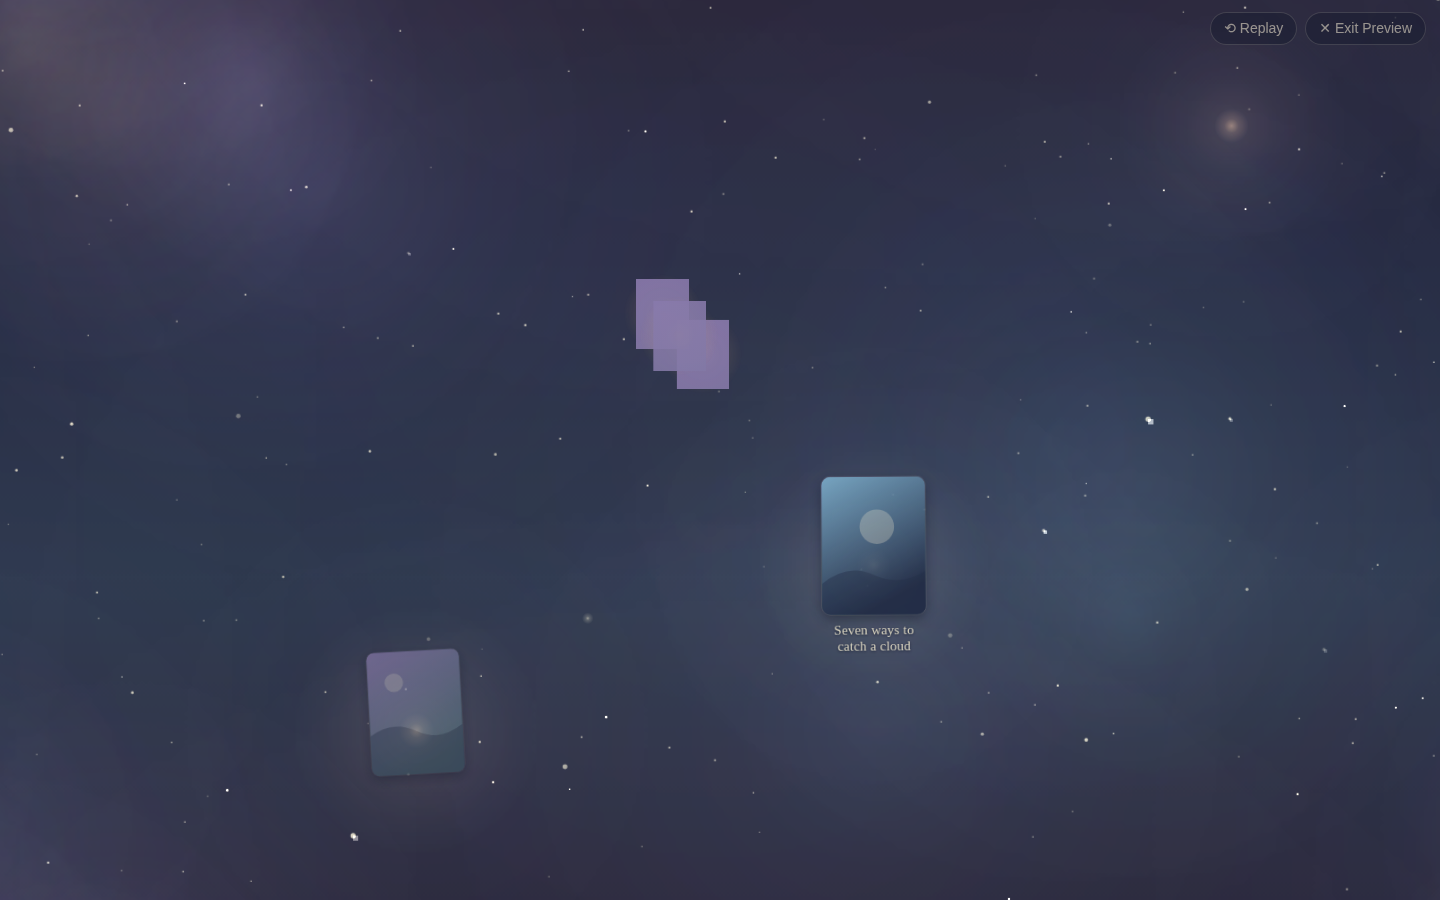
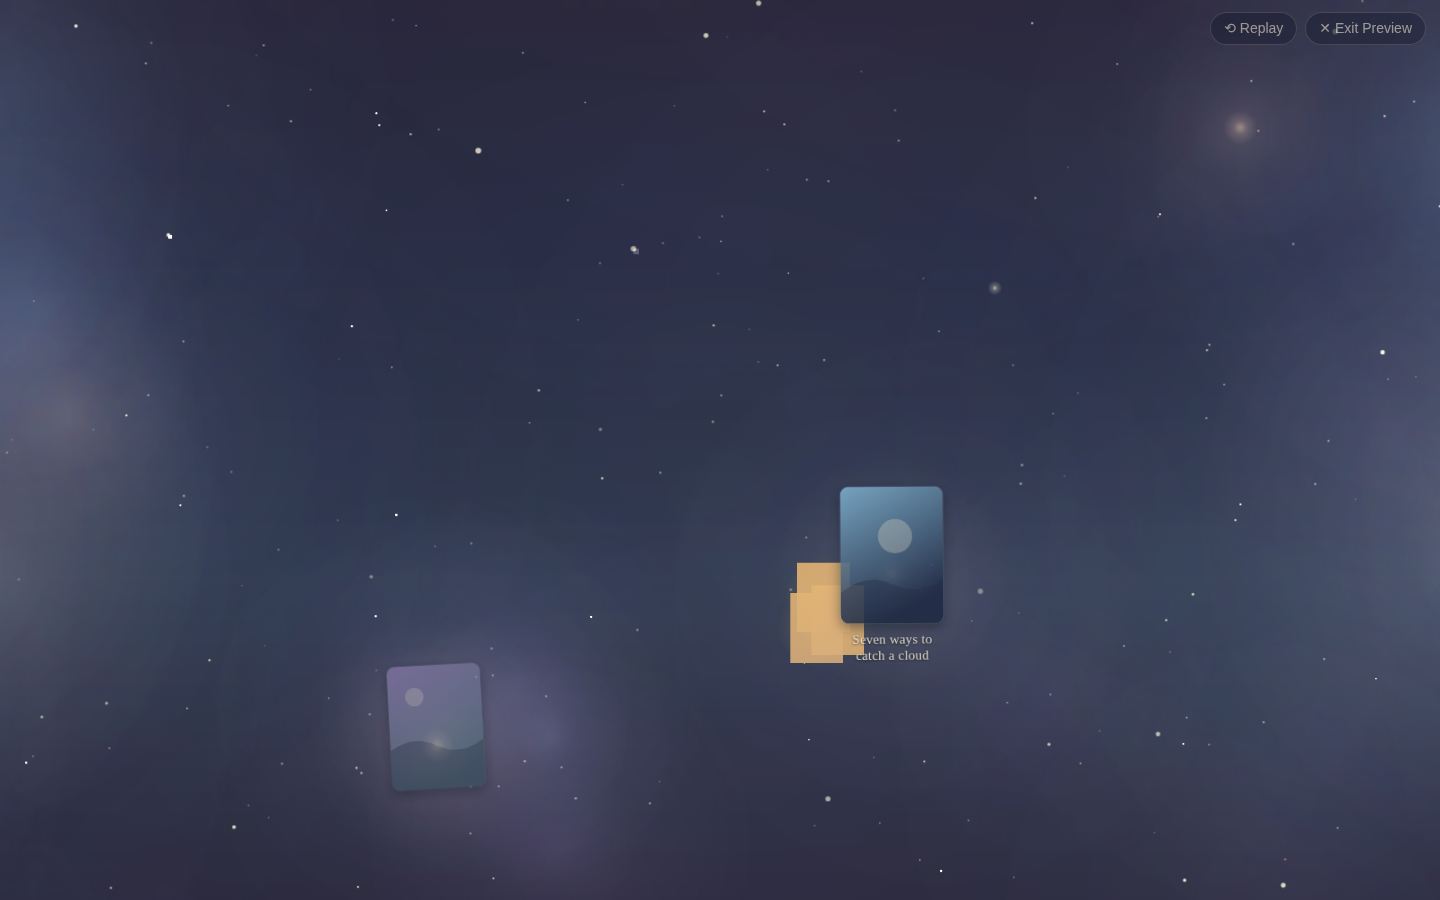
Ether Mystery Lab: the fair Pegasus test — a creation, and room to use it
The first run of this preset came back 5/5 valid and 5/5 the same. The
forensic trace found why, and it was not the model: no creation was
supplied, so shard, toward-creation and creation-revealed were all
refusable, the only ingredient left was an anchor, and the schema
truthfully says an anchor pairs with place 'at-anchor'. All five then
placed every element there — and the interpreter's clustered branch
puts those within ±40×±30px of ONE point. Measured on the five real
candidates: bounding boxes of 64×69 to 148×125 on a 1440×900 sky, and
0.002%-0.332% of it perceptible.

TWO CHANGES, BOTH IN THE LAB.

`pegasus-regeneration` gains `needsCreation: true`, and its directive
asks for the space to be used: vary placement across the five, drawing
on scattered, ring, far and toward-creation, at-anchor at most once,
and never every element of a candidate in one place. Every placement it
names is a real capability (C10g) — a directive naming something the
vocabulary lacks only produces refusals.

AND `needsCreation` BECOMES A FACT RATHER THAN A LABEL. It was a
parenthetical in the preset note and nothing else — gatherBuildOpts
reads #creationSelect on its own — so a creation-bound experiment
generated perfectly happily without one. That IS what happened to the
first batch. Arming now selects it, for the same reason arming already
set count, grammar and complexity; and a run with it cleared is refused
in words rather than generated anyway.
[…]

diff --git a/tools/ether-mystery-lab-test/run-lab-tests.js b/tools/ether-mystery-lab-test/run-lab-tests.js
@@ -799,6 +799,48 @@ async function sectionB() {
   ck(rr.indexOf('materially different') !== -1 || rr.indexOf('RESKINS PRESENT') !== -1,
     'B15 the reskin measure is on screen after a preset run', rr.slice(0, 60));
 
+  {
+    // B16 — ARMING A CREATION-BOUND PRESET SUPPLIES THE CREATION.
+    //
+    // `needsCreation` used to be a parenthetical in the preset note and
+    // nothing else — gatherBuildOpts reads #creationSelect on its own —
+    // so a creation-bound experiment generated perfectly happily without
+    // one. That is what happened to the first Pegasus batch, and it is
+    // why all five candidates came back built on an anchor. Arming now
+    // sets it, exactly as it already set count, grammar and complexity.
+    await page.reload();
+    await page.waitForTimeout(900);
+    await page.check('#modeFixture');
+    const creationBefore = await page.inputValue('#creationSelect');
+    await page.click('.lab-preset[data-preset="pegasus-regeneration"]');
+    await page.waitForTimeout(120);
+    const armed = await page.evaluate(() => ({
+      creation: document.getElementById('creationSelect').value,
+      count: document.getElementById('countSelect').value,
+      complexity: document.getElementById('complexitySelect').value,
+      grammar: document.getElementById('grammarSelect').value
+    }));
+    ck(creationBefore === '' && armed.creation === 'fixture-0' && armed.count === '5' &&
+       armed.complexity === 'mixed' && armed.grammar === 'compose',
+      'B16 arming the Pegasus run selects a creation as well as its other parameters',
+      JSON.stringify(armed));
+    await page.click('#generateBtn');
+    await page.waitForTimeout(700);
+    const pegDiag = await page.textContent('#diagnostic');
+    ck(pegDiag.indexOf('NOT SENT') === -1 && /story/.test(pegDiag),
+      'B16b and the creation is in the input that would reach a generator',
+      pegDiag.slice(0, 80));
+
+    // B16c — a reviewer who clears it is TOLD, and nothing is sent.
+    await page.selectOption('#creationSelect', '');
+    await page.click('#generateBtn');
+    await page.waitForTimeout(500);
+    const refusedDiag = await page.textContent('#diagnostic');
+    ck(refusedDiag.indexOf('NOT SENT — this experiment needs a creation') === 0,
+      'B16c a creation-bound experiment run without one is refused, not generated anyway',
+      refusedDiag.slice(0, 60));
+  }
+
   await browser.close();
   server.kill();
 }
@@ -1956,6 +1998,62 @@ function sectionC() {
   ck(contradicts.length === 0,
     'C10d no preset still tells a model to build its mystery FROM a sky figure',
     contradicts.join(','));
+
+  // ---- C10e-h: THE FAIR PEGASUS TEST (the forensic report's §C) ----
+  //
+  // The first run of this preset came back 5/5 valid and 5/5 the same.
+  // Traced: no creation was supplied, so shard / toward-creation /
+  // creation-revealed were all refusable, the only ingredient left was
+  // an anchor, and the schema truthfully says an anchor pairs with
+  // place 'at-anchor'. Every one of the five then placed every element
+  // there, and the interpreter's clustered branch puts those within
+  // ±40×±30px of ONE point. What changed is the PRESET and its
+  // DIRECTIVE. The contract is deliberately untouched.
+  ck(peg && peg.needsCreation === true,
+    'C10e the Pegasus run now supplies a creation — the ingredient that unlocks shard, ' +
+    'toward-creation and creation-revealed');
+  const pe = (peg && peg.emphasis) || '';
+  const named = ['scattered', 'ring', 'far', 'toward-creation'].filter((pl) => pe.indexOf(pl) !== -1);
+  ck(named.length === 4 && /at-anchor at most once/i.test(pe) &&
+     /vary the placement/i.test(pe),
+    'C10f and its directive requires placement to VARY across the batch, naming all four ' +
+    'and bounding at-anchor', named.join(',') + ' | at-anchor bounded: ' +
+    /at-anchor at most once/i.test(pe));
+  // Every placement it names must be a real capability — the P-family
+  // lesson (a directive that names something the vocabulary lacks is a
+  // directive that produces refusals).
+  const notReal = named.filter((pl) => G.CAPABILITIES.places.indexOf(pl) === -1);
+  ck(notReal.length === 0 && pe.indexOf('creation') !== -1,
+    'C10g every placement the directive names is a real capability, and it asks for the creation',
+    notReal.join(','));
+  // THE CONTRACT IS UNTOUCHED (the sprint's own constraint 3-5). Built
+  // with and without this preset's directive, everything but
+  // `directives` must be identical — schema, capabilities, grammars,
+  // boundaries, forbidden keys. A preset may steer a generator; it may
+  // never quietly restate the world.
+  const withPeg = K.buildInput({
+    structures: [{ kind: 'story', pages: 5, hasCover: true }],
+    constellations: [{ figure: 'pegasus', name: 'Pegasus', starCount: 9,
+                       looksLike: 'mythical', about: 'x' }],
+    grammar: peg.grammar, count: peg.count, complexity: peg.complexity,
+    emphasis: peg.emphasis, pool: sb.EtherExperiencePool
+  });
+  const without = K.buildInput({
+    structures: [{ kind: 'story', pages: 5, hasCover: true }],
+    constellations: [{ figure: 'pegasus', name: 'Pegasus', starCount: 9,
+                       looksLike: 'mythical', about: 'x' }],
+    grammar: peg.grammar, count: peg.count, complexity: peg.complexity,
+    emphasis: '', pool: sb.EtherExperiencePool
+  });
+  ck(withPeg.ok && without.ok &&
+     JSON.stringify(withPeg.input.contract) === JSON.stringify(without.input.contract),
+    'C10h the CONTRACT is byte-identical with and without the directive — only directives moved');
+  // And the creation actually reaches the model.
+  ck(withPeg.ok && Array.isArray(withPeg.input.contract.creations) &&
+     withPeg.input.contract.creations.length === 1 &&
+     withPeg.input.contract.creations[0].kind === 'story',
+    'C10i the creation reaches the generator as public creative structure',
+    JSON.stringify(withPeg.input.contract.creations));
 
   // ---- C11: the contract label moved with the contract ----
   ck(K.PROMPT_VERSION === 'ether-mystery-lab-3',

diff --git a/tools/ether-mystery-lab/labUi.js b/tools/ether-mystery-lab/labUi.js
@@ -206,7 +206,14 @@
       $('presetRow').appendChild(b);
     });
 
-    $('generateBtn').addEventListener('click', generateNow);
+    // generateNow(refine) — and a click handler is called WITH THE
+    // EVENT, so wiring it directly made `refine` a MouseEvent on every
+    // plain press. buildInput's own `opts.refine.original` guard meant
+    // no refinement directive was ever sent (measured: the real
+    // Pegasus log carries refinementOf null throughout, so no
+    // provenance was harmed) — but every `if (refine)` in this file
+    // was reading true for an ordinary generation.
+    $('generateBtn').addEventListener('click', function () { generateNow(); });
     $('cancelBtn').addEventListener('click', function () {
       genSeq++;          // whatever resolves late belongs to nobody now
       Conn.cancel();
@@ -233,6 +240,27 @@
     // set them rather than leaving a reviewer to match them by hand.
     if (e && e.complexity) $('complexitySelect').value = e.complexity;
     if (e && e.grammar && !e.grammars) $('grammarSelect').value = e.grammar;
+    // AND A CREATION IS A PARAMETER LIKE ANY OTHER. `needsCreation`
+    // used to be a parenthetical in this very sentence and nothing
+    // else: gatherBuildOpts reads #creationSelect on its own, so a
+    // preset that needs a creation would generate perfectly happily
+    // without one — which is exactly what happened to the first
+    // Pegasus batch, and it is why all five candidates came back
+    // built on an anchor. It is set here for the same reason the
+    // three above are, and only when the reviewer has not chosen one
+    // themselves.
+    if (e && e.needsCreation && !$('creationSelect').value) {
+      $('creationSelect').value = 'fixture-0';
+    }
+  }
+
+  // Whether the armed preset's own requirement is actually met right
+  // now. A reviewer may clear the selection after arming, and a
+  // creation-less run of a creation-bound experiment answers a
+  // different question from the one being asked.
+  function presetCreationMissing() {
+    var preset = armedPreset ? Kit.EXPERIMENTS[armedPreset] : null;
+    return !!(preset && preset.needsCreation && !$('creationSelect').value);
   }
 
   function gatherBuildOpts(refine) {
@@ -279,6 +307,19 @@
   // plain generation takes; nothing about a refinement is a second
   // pipeline, and the result is a NEW candidate linked to the original.
   function generateNow(refine) {
+    // A creation-bound experiment run WITHOUT a creation answers a
+    // different question, and answers it convincingly — 5/5 valid,
+    // 5/5 the same. Said out loud rather than generated anyway.
+    if (!refine && presetCreationMissing()) {
+      $('diagnostic').textContent = 'NOT SENT — this experiment needs a creation.\n\n' +
+        'The armed preset is about what a mystery does with a real shared creation. ' +
+        'With none selected, shard, toward-creation and creation-revealed are all ' +
+        'refusable and the batch can only be built on an anchor. Choose a creation ' +
+        'above, or disarm the preset.';
+      $('genState').textContent = '';
+      lastDiagnostic = null;
+      return;
+    }
     var opts = gatherBuildOpts(refine);
     var built = Kit.buildInput(opts);
     if (!built.ok) {

diff --git a/tools/ether-mystery-lab/labKit.js b/tools/ether-mystery-lab/labKit.js
@@ -1148,7 +1148,20 @@
       title: '⭐ Pegasus — Regeneration',
       brief: 'The exact experiment that came back 10/10 invalid: Pegasus · Composer choose · 5 candidates · mixed complexity. Run it against the repaired contract.',
       count: 5, constellations: ['pegasus'], grammar: 'compose', complexity: 'mixed',
-      emphasis: 'Let the Pegasus figure inspire each candidate — a winged shape, a great square, a long neck of stars — through arrangement, count, placement and wording only. It is NOT an ingredient and has no field. Vary the grammar and the complexity across the five.'
+      needsCreation: true,
+      // THE FAIR TEST. The first run of this preset came back 5/5
+      // valid and 5/5 the same: no creation was supplied, so `shard`,
+      // `toward-creation` and `creation-revealed` were all refusable
+      // and the only ingredient left was an anchor — which the schema
+      // truthfully says pairs with `at-anchor`. Every candidate then
+      // placed every element there, and the interpreter's clustered
+      // branch puts those within ±40×±30px of ONE point. Measured on
+      // the five real candidates: bounding boxes of 64×69 to 148×125
+      // on a 1440×900 sky. The batch was never able to be spatially
+      // interesting. This preset now supplies a creation and asks for
+      // the space to be used; the CONTRACT is untouched, because it
+      // was already truthful — what was missing was the directive.
+      emphasis: 'Use the ONE supplied creation in every candidate. Let the Pegasus figure inspire each — a winged shape, a great square, a long neck of stars — through arrangement, count, placement and wording only. It is NOT an ingredient and has no field. VARY THE PLACEMENT ACROSS THE FIVE: draw on scattered, ring, far and toward-creation, and use at-anchor at most once. Do not give every element in a candidate the same place, and do not make one placement the batch default. A mystery should occupy real space on the sky rather than sitting in one small cluster. Vary the grammar and the complexity across the five as well.'
     },
     'same-constellation': {
       title: 'Same Constellation, Different Grammars',
